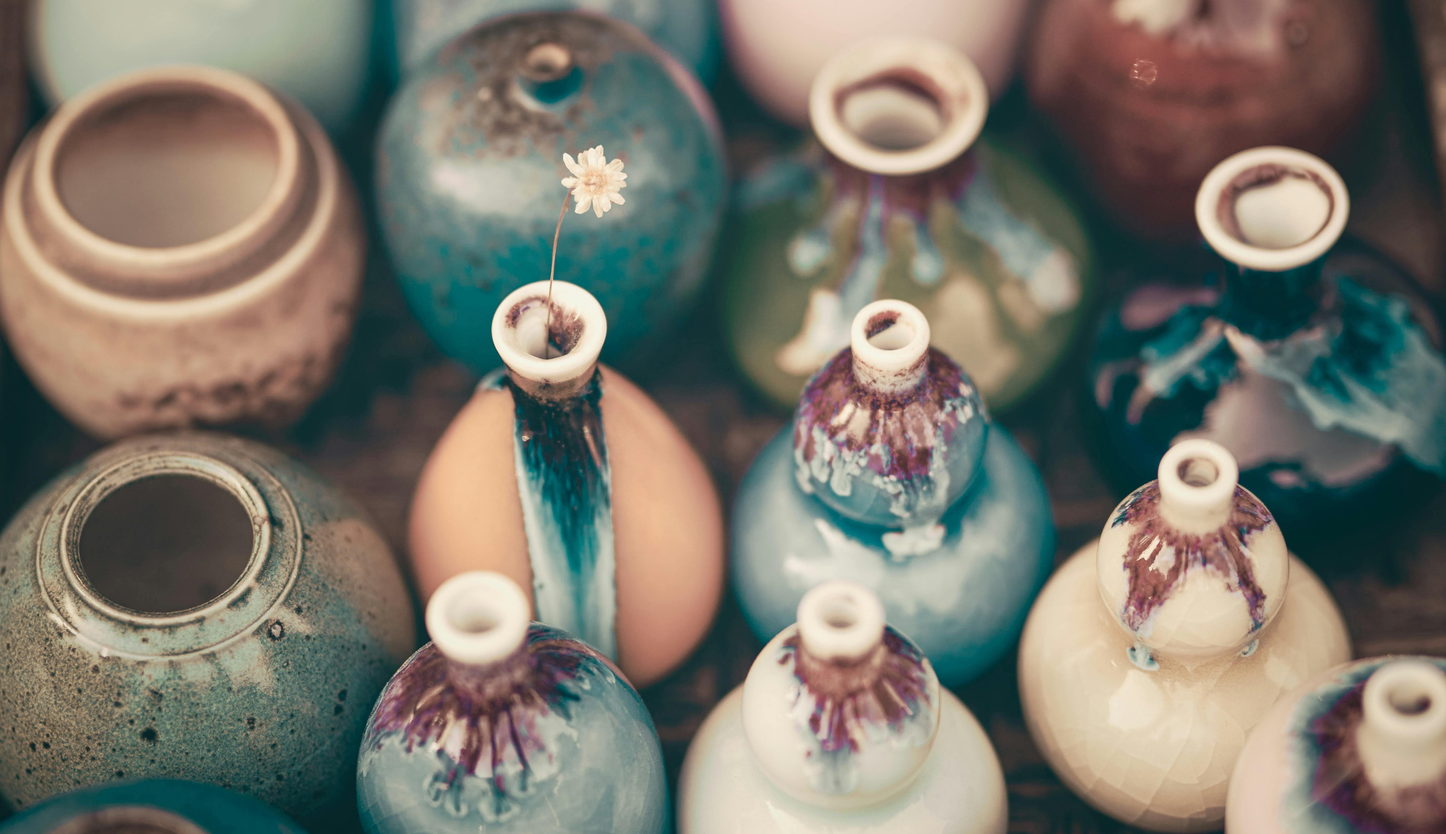
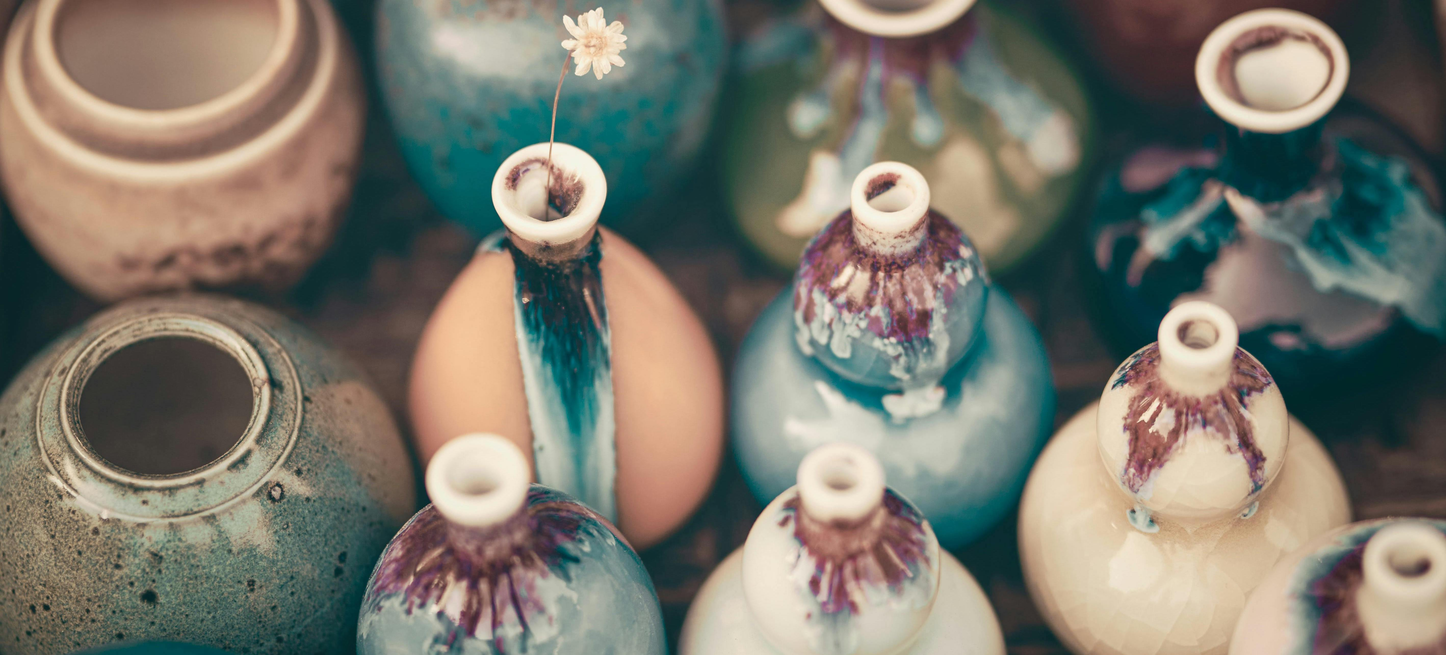
Add styling add resized image

diff --git a/static/css/style.css b/static/css/style.css
@@ -46,9 +46,8 @@ i {
 
 /* Hero Image */
 .hero-image {
-  height: 600px;
-  overflow: hidden;
-  border: none;
+  width: 100%;
+  height: auto;
 }
 
 .hero-image img {
@@ -100,10 +99,8 @@ h1 {
 }
 
 .hero-background {
-  background-size: cover;
-  background-position: center;
-  object-position: center;
-  height: 550px;
+  width: 100%;
+  height: auto;
 }
 
 .custom-search-button .bi-search {
